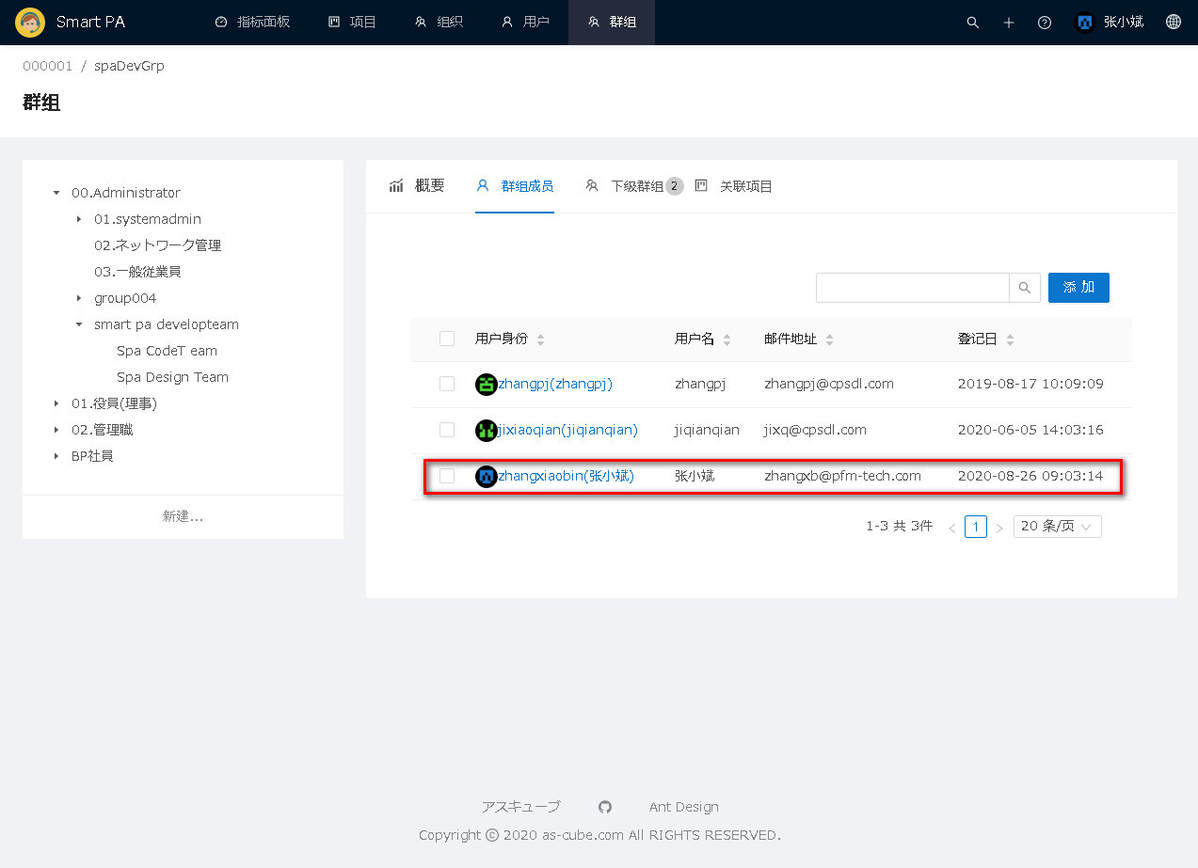
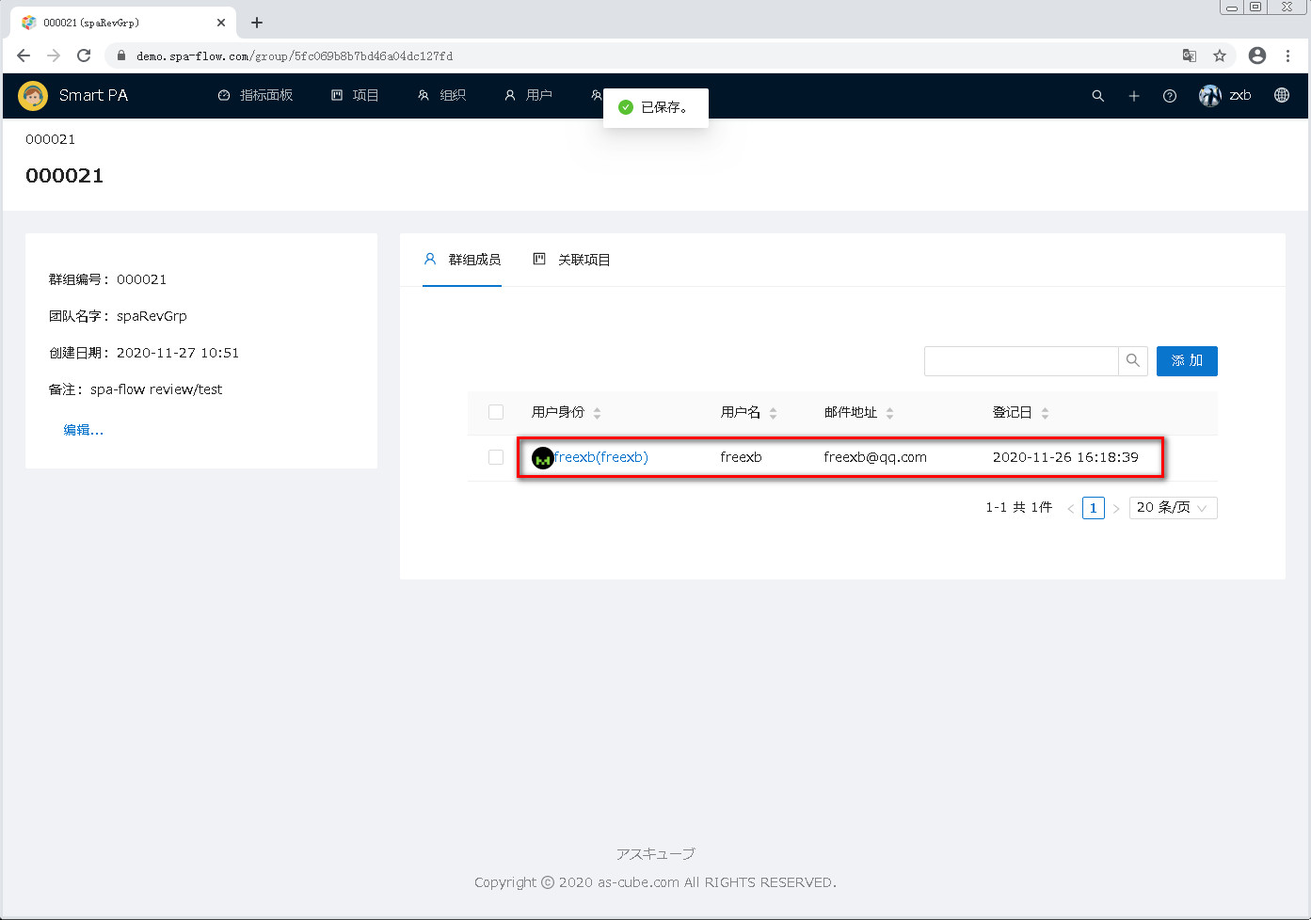
rewriteGroup
group tree is deleted→rewrite group

diff --git a/html/group-cn.html b/html/group-cn.html
@@ -473,33 +473,39 @@ vertical-align:1px;
 <hr>
 <h2 id="1-">1 进入群组管理模块</h2>
 <p>点击页面顶部菜单栏的 <u>群组</u> ，即可进入群组管理模块。<br><img src="../images/userGuide/group/groupMenu-cn.jpg" alt="avatar"><br><img src="../images/userGuide/group/groupList-cn.jpg" alt="avatar"></p>
-<h2 id="2-">2 新建群组</h2>
-<p>新建群组有两种方式。<br>&emsp;第一种是点击页面左栏群组列表下面的 <u>新建...</u> 按钮。<br>&emsp;第二种是点击页面右栏的概要标签的下面的 <u>新建...</u> 按钮。<br>二者的不同之处是：<br>&emsp;第一种：新建群组页面里的上级群组一项的默认值为空。<br>&emsp;第二种：新建群组页面里的上级群组一项的默认值为当前选择的群组。</p>
+<h2 id="2-">2 群组检索</h2>
+<h2 id="2-1-">2.1 检索群组编号中包含检索文字的群组</h2>
+<p>如下图，群组列表上方有检索框，可通过它检索群组。<br>检索的匹配模式是部分包含匹配，即群组编号或团队名字中包含输入的检索文字的群组会被检索到。且检索文字不区分大小写。</p>
+<p>首先，在检索框中输入检索文字。<br><img src="../images/userGuide/group/inputSelGroupWord-cn.jpg" alt="avatar"><br>然后点击检索按钮(即放大镜图标),或者按回车键(Enter键)。<br><img src="../images/userGuide/group/selGroupIcon-cn.jpg" alt="avatar"><br>群组编号或团队名字中包含检索文字的群组被检索出来。<br><img src="../images/userGuide/group/selectedGroup-cn.jpg" alt="avatar"></p>
+<h2 id="2-2-">2.2 显示所有群组</h2>
+<p>如果想显示所有群组，则删除检索框中的所有文字，之后点击检索按钮(或者在键盘上点击回车键)，即可显示所有群组。</p>
+<h2 id="3-">3 下载群组信息一览</h2>
+<p>可以点击下载按钮，将群组信息一览以csv文件格式下载到本地电脑。</p>
+<p>点击下载按钮。<br><img src="../images/userGuide/group/downGroupFileIcon-cn.jpg" alt="avatar"><br>下载完成后，页面底部显示下载状态栏，点击下载文件右边的箭头。<br><img src="../images/userGuide/group/downloadedGroup-cn.jpg" alt="avatar"><br>在弹出的菜单中，选择 <u>在文件夹中显示</u>。<br><img src="../images/userGuide/group/showDownFileInFld-cn.jpg" alt="avatar"><br>下载文件所在的文件夹被打开，可以看到下载文件。<br><img src="../images/userGuide/group/openDownFileFld-cn.jpg" alt="avatar"><br>打开文件，确认文件里的群组信息。<br><img src="../images/userGuide/group/openDownGroupFile-cn.jpg" alt="avatar"></p>
+<h2 id="4-">4 新建群组</h2>
+<p>新建群组有两种方式。<br>一种是点击<u>+新建</u>按钮，进入创建群组页面来新建群组。<br>另一种是通过点击上传按钮，通过上传csv文件来批量建立群组。</p>
 <p>以下分别说明两种新建群组的方法。</p>
-<h2 id="2-1-u-u-">2.1 点击页面左栏群组列表下面的 <u>新建...</u> 按钮来新建群组</h2>
-<p>点击页面左栏群组列表下面的 <u>新建...</u> 按钮<br><img src="../images/userGuide/group/addGroupBtnLeft-cn.jpg" alt="avatar"><br>进入新建群组页面。注意上级群组一项为空，没有默认值。<br><img src="../images/userGuide/group/newGroupInitNoSup-cn.jpg" alt="avatar"><br>输入要新建的群组信息后，点击<u>保存</u>按钮。<br>[注意]&emsp;上级群组若不输入，则建立的群组为顶级群组。<br><img src="../images/userGuide/group/newGroup-cn.jpg" alt="avatar"><br>保存后，页面跳转到一览页面，在一览中，可以看到刚才新建的群组。<br><img src="../images/userGuide/group/newGroupSaved-cn.jpg" alt="avatar"></p>
-<h2 id="2-2-u-u-">2.2 点击页面右栏的概要标签的下面的 <u>新建...</u> 按钮来新建群组</h2>
-<p>选择一个群组，点击其概要标签页下面的<u>新建...</u> 按钮<br><img src="../images/userGuide/group/addGroupBtnRight-cn.jpg" alt="avatar"><br>进入新建群组页面。注意上级群组一项具有默认值，其默认值为当前选中的群组。<br><img src="../images/userGuide/group/newGroupInitHaveSup-cn.jpg" alt="avatar"><br>输入要新建的群组信息后，点击<u>保存</u>按钮。<br><img src="../images/userGuide/group/newGroupHaveSup-cn.jpg" alt="avatar"><br>保存后，页面跳转到一览页面，在一览中，可以看到刚才新建的群组。<br><img src="../images/userGuide/group/newGroupSavedHaveSup-cn.jpg" alt="avatar"></p>
-<h2 id="3-">3.编辑群组</h2>
-<p>从页面左栏的群组树中，点击选择要修改的群组。页面右栏则显示被选择的群组信息。<br>群组信息分为<u>概要</u>、<u>群组成员</u>、<u>下级群组</u>、<u>关联项目</u> 四部分。<br><img src="../images/userGuide/group/selectGroup-cn.jpg" alt="avatar"></p>
-<h3 id="3-1-">3.1群组概要信息的编辑</h3>
+<h3 id="4-1-">4.1 新建群组</h3>
+<p>点击群组列表左上方的 <u>+新建</u> 按钮,<br><img src="../images/userGuide/group/addGroupBtn-cn.jpg" alt="avatar"><br>进入新建群组页面,<br><img src="../images/userGuide/group/newGroupInit-cn.jpg" alt="avatar"><br>输入要新建的群组信息后，点击<u>保存</u>按钮,<br><img src="../images/userGuide/group/newGroup-cn.jpg" alt="avatar"><br>群组被创建，页面回到群组一览页面。<br><img src="../images/userGuide/group/groupCreated-cn.jpg" alt="avatar"></p>
+<h3 id="4-2-csv-">4.2 上传csv文件批量建立群组</h3>
+<p>首先准备好群组csv文件,csv文件的内容和格式参见下图中的groupListUp.csv。<br><img src="../images/userGuide/group/groupCsvFile-cn.jpg" alt="avatar"><br>点击群组列表右上方的上载按钮。<br><img src="../images/userGuide/group/uploadGroupCsvIcon-cn.jpg" alt="avatar"><br>弹出文件选择框。<br><img src="../images/userGuide/group/selFileDlgGroupCsv-cn.jpg" alt="avatar"><br>选择准备的群组csv文件，之后点击<u>打开(O)</u>按钮。<br><img src="../images/userGuide/group/selectedGroupCsv_cn.jpg" alt="avatar"><br>页面回到群组一览页面，可以看到群组csv文件中的群组已显示在群组一览中。<br><img src="../images/userGuide/group/addedGroupByCsv-cn.jpg" alt="avatar"></p>
+<h2 id="5-">5 管理群组综合信息</h2>
+<p>从群组一览中，点击要管理的群组编号，即可进入此群组的综合信息管理页面。<br><img src="../images/userGuide/group/clickGrpIdInGrpList-cn.jpg" alt="avatar"><br>在此页面，可编辑群组基本信息、管理群组成员、查看群组的关联项目。<br><img src="../images/userGuide/group/groupViewInit-cn.jpg" alt="avatar"></p>
+<h3 id="5-1-">5.1 编辑群组基本信息</h3>
 <p>点击概要下面的<u>编辑...</u>按钮，即可进入群组修改页面。<br><img src="../images/userGuide/group/editGroupBtn-cn.jpg" alt="avatar"><br>进入群组编辑页面。<br><img src="../images/userGuide/group/editGroupInit-cn.jpg" alt="avatar"><br>修改群组信息后，点击<u>保存</u>按钮。<br><img src="../images/userGuide/group/editGroup-cn.jpg" alt="avatar"><br>保存后，页面跳转至群组一览页面，可以看到刚才修改的群组的信息。<br><img src="../images/userGuide/group/editGroupSaved-cn.jpg" alt="avatar"></p>
-<h3 id="3-2-">3.2群组成员的管理</h3>
-<p>点击群组成员标签，进入群组成员一览页面。在此页面，可添加和移除群组成员。<br><img src="../images/userGuide/group/userList-cn.jpg" alt="avatar"></p>
-<h4 id="3-2-1-">3.2.1添加群组成员</h4>
-<p>点击<u>添加</u>按钮，<br><img src="../images/userGuide/group/userListAddBtn-cn.jpg" alt="avatar"><br>弹出添加用户的页面。<br><img src="../images/userGuide/group/addUserDlg-cn.jpg" alt="avatar"><br>在输入框中输入要添加的用户名。输入时，与输入文字部分匹配的用户将自动列出，可从列表中点击选择。<br><img src="../images/userGuide/group/addUserDlgSel-cn.jpg" alt="avatar"><br>选择好要添加的用户后，点击OK按钮即可。若要放弃本次操作，则点击取消按钮即可。<br><img src="../images/userGuide/group/addUserDlgSelected-cn.jpg" alt="avatar"><br>点击OK按钮后，页面跳转到用户一览画面，可以看到刚才添加的用户出现在列表中。<br><img src="../images/userGuide/group/addUserSaved-cn.jpg" alt="avatar"></p>
-<h4 id="3-2-2-">3.2.2移除群组成员</h4>
-<p>选中要移除的用户前面的复选框，<br><img src="../images/userGuide/group/delUserChk-cn.jpg" alt="avatar"><br>之后用户列表上方出现已选中条数的信息和<u>移除</u>按钮,<br><img src="../images/userGuide/group/delUserChkOn-cn.jpg" alt="avatar"><br>选中要移除的用户后，点击<u>移除</u>按钮,<br><img src="../images/userGuide/group/delUserBtn-cn.jpg" alt="avatar"><br>用户一览刷新，可以看到被移除的用户已经从一览中消失。<br><img src="../images/userGuide/group/deledUser-cn.jpg" alt="avatar"></p>
-<h3 id="3-3-">3.3下级群组的管理</h3>
-<p>点击下级群组，进入下级群组一览页面，在此页面，可删除下级群组和查看下级群组的详细信息。<br><img src="../images/userGuide/group/childGroupList-cn.jpg" alt="avatar"></p>
-<h4 id="3-3-1-">3.3.1删除下级群组</h4>
-<p>通过点选最前面的复选框选中要删除的下级群组，之后下级群组列表上方出现已选中条数的信息和<u>删除</u>按钮。<br><img src="../images/userGuide/group/delGroupChk-cn.jpg" alt="avatar"><br><img src="../images/userGuide/group/delGroupChked-cn.jpg" alt="avatar"><br>选中要删除的下级群组后，点击<u>删除</u>按钮。出现删除确认的对话框。<br>点击<u>OK</u>按钮，即可进行删除。点击<u>取消</u>按钮，则放弃本次删除操作。<br><img src="../images/userGuide/group/delGroupConfirm-cn.jpg" alt="avatar"><br>之后，下级群组一览刷新。可以看到刚才删除的下级群组已经从一览中消失。<br><img src="../images/userGuide/group/deledGroup-cn.jpg" alt="avatar"></p>
-<h4 id="3-3-2-">3.3.2查看下级群组详细信息</h4>
-<p>点击要查看的群组的群组编号，进入下级群组详细信息页面，可查看其详细信息。<br><img src="../images/userGuide/group/childGroupLink-cn.jpg" alt="avatar"><br><img src="../images/userGuide/group/childGroupDetail-cn.jpg" alt="avatar"><br>进入下级群组详细信息页面后，在页面左栏有<u>编辑...</u>、<u>新建...</u>按钮。<br>页面右栏则有群组成员、下级群组、关联项目3个标签页面。下面分别说明其操作功能。<br>&emsp;编辑按钮：点击进入群组编辑页面，操作请参见<u>###3.1群组概要信息的编辑</u>。<br>&emsp;新建按钮：点击进入群组新建页面，操作请参见<u>##2.2 点击页面右栏的概要标签的下面的 <u>新建...</u> 按钮来新建群组</u>。<br>&emsp;群组成员标签页：参见<u>###3.2群组成员的管理</u>。<br>&emsp;下级群组标签页：参见<u>###3.3下级群组的管理</u>。<br>&emsp;关联项目标签页：参见<u>###3.4关联项目的管理</u>。</p>
-<h3 id="3-4-">3.4关联项目的管理</h3>
-<p>点击关联项目，进入关联项目一览页面。<br><img src="../images/userGuide/group/relatedPrj-cn.jpg" alt="avatar"></p>
-<h3 id="3-4-1-">3.4.1查看项目具体信息</h3>
-<p>点击要查看的项目，<br><img src="../images/userGuide/group/relatedPrjLink-cn.jpg" alt="avatar"><br>进入项目详细页面。<br><img src="../images/userGuide/group/relatedPrjDetail-cn.jpg" alt="avatar"></p>
+<h3 id="5-2-">5.2 管理群组成员</h3>
+<p>在群组成员标签页，可以添加或删除群组所属成员<br><img src="../images/userGuide/group/userList-cn.jpg" alt="avatar"></p>
+<h4 id="5-2-1-">5.2.1添加群组成员</h4>
+<p>点击<u>添加</u>按钮。<br><img src="../images/userGuide/group/userListAddBtn-cn.jpg" alt="avatar"><br>弹出添加用户的页面。<br><img src="../images/userGuide/group/addUserDlg-cn.jpg" alt="avatar"><br>在输入框中输入要添加的用户名。输入时，与输入文字部分匹配的用户将自动列出，可从列表中点击选择。<br><img src="../images/userGuide/group/addUserDlgSel-cn.jpg" alt="avatar"><br>选择好要添加的用户后，点击OK按钮即可。若要放弃本次操作，则点击取消按钮即可。<br><img src="../images/userGuide/group/addUserDlgSelected-cn.jpg" alt="avatar"><br>点击OK按钮后，页面跳转到用户一览画面，可以看到刚才添加的用户出现在列表中。<br><img src="../images/userGuide/group/addUserSaved-cn.jpg" alt="avatar"></p>
+<h4 id="5-2-2-">5.2.2删除群组成员</h4>
+<p>删除群组成员，并非删除用户信息，只是将用户从群组中移出。</p>
+<p>选择要删除用户前面的复选框。<br><img src="../images/userGuide/group/delUserChk-cn.jpg" alt="avatar"><br>选中用户后，列表上方出现已选中条数的信息和<u>删除</u>按钮。<br><img src="../images/userGuide/group/delUserChkOn-cn.jpg" alt="avatar"><br>点击<u>删除</u>按钮。<br><img src="../images/userGuide/group/delUserBtn-cn.jpg" alt="avatar"><br>用户一览刷新，可以看到被删除的用户已经从一览中消失。<br><img src="../images/userGuide/group/deledUser-cn.jpg" alt="avatar"></p>
+<h3 id="5-3-">5.3关联项目的管理</h3>
+<p>点击关联项目，进入关联项目一览页面。<br><img src="../images/userGuide/group/relatedPrjTab-cn.jpg" alt="avatar"><br><img src="../images/userGuide/group/relatedPrjList-cn.jpg" alt="avatar"></p>
+<h3 id="5-3-1-">5.3.1查看项目具体信息</h3>
+<p>点击要查看的项目。<br><img src="../images/userGuide/group/relatedPrjLink-cn.jpg" alt="avatar"><br>进入项目详细页面。<br><img src="../images/userGuide/group/relatedPrjDetail-cn.jpg" alt="avatar"></p>
+<h2 id="6-">6.删除群组</h2>
+<p>要删除群组，首先在群组一览里选择要删除的群组。当一览中群组数过多时，可利用检索缩减列表中的群组数。<br><img src="../images/userGuide/group/selectGroupInList-cn.jpg" alt="avatar"><br>选中后，一览的上方出现选中件数信息和删除按钮。<br><img src="../images/userGuide/group/selectedGroupInList-cn.jpg" alt="avatar"><br>点击删除按钮。<br><img src="../images/userGuide/group/groupListDeleteBtn-cn.jpg" alt="avatar"><br>弹出删除确认对话框。<br><img src="../images/userGuide/group/deleteGroupInListConfirm-cn.jpg" alt="avatar"><br>点击对话框上的OK按钮即可(若想放弃删除，则点击取消按钮)。<br><img src="../images/userGuide/group/deleteGroupInListConfirmOkBtn-cn.jpg" alt="avatar"><br>群组被删除，从一览中消失。<br><img src="../images/userGuide/group/deletedGroupInList-cn.jpg" alt="avatar"></p>
 
 </body>
 </html>

diff --git a/userGuide/group-cn.md b/userGuide/group-cn.md
@@ -8,42 +8,73 @@
 ![avatar](../images/userGuide/group/groupMenu-cn.jpg)
 ![avatar](../images/userGuide/group/groupList-cn.jpg)
 
-##2 新建群组
+##2 群组检索
+
+##2.1 检索群组编号中包含检索文字的群组
+如下图，群组列表上方有检索框，可通过它检索群组。
+检索的匹配模式是部分包含匹配，即群组编号或团队名字中包含输入的检索文字的群组会被检索到。且检索文字不区分大小写。
+
+首先，在检索框中输入检索文字。
+![avatar](../images/userGuide/group/inputSelGroupWord-cn.jpg)
+然后点击检索按钮(即放大镜图标),或者按回车键(Enter键)。
+![avatar](../images/userGuide/group/selGroupIcon-cn.jpg)
+群组编号或团队名字中包含检索文字的群组被检索出来。
+![avatar](../images/userGuide/group/selectedGroup-cn.jpg)
+
+##2.2 显示所有群组
+如果想显示所有群组，则删除检索框中的所有文字，之后点击检索按钮(或者在键盘上点击回车键)，即可显示所有群组。
+
+##3 下载群组信息一览
+可以点击下载按钮，将群组信息一览以csv文件格式下载到本地电脑。
+
+点击下载按钮。
+![avatar](../images/userGuide/group/downGroupFileIcon-cn.jpg)
+下载完成后，页面底部显示下载状态栏，点击下载文件右边的箭头。
+![avatar](../images/userGuide/group/downloadedGroup-cn.jpg)
+在弹出的菜单中，选择 <u>在文件夹中显示</u>。
+![avatar](../images/userGuide/group/showDownFileInFld-cn.jpg)
+下载文件所在的文件夹被打开，可以看到下载文件。
+![avatar](../images/userGuide/group/openDownFileFld-cn.jpg)
+打开文件，确认文件里的群组信息。
+![avatar](../images/userGuide/group/openDownGroupFile-cn.jpg)
+
+##4 新建群组
 新建群组有两种方式。
-&emsp;第一种是点击页面左栏群组列表下面的 <u>新建...</u> 按钮。
-&emsp;第二种是点击页面右栏的概要标签的下面的 <u>新建...</u> 按钮。
-二者的不同之处是：
-&emsp;第一种：新建群组页面里的上级群组一项的默认值为空。
-&emsp;第二种：新建群组页面里的上级群组一项的默认值为当前选择的群组。
+一种是点击<u>+新建</u>按钮，进入创建群组页面来新建群组。
+另一种是通过点击上传按钮，通过上传csv文件来批量建立群组。
 
 以下分别说明两种新建群组的方法。
 
-##2.1 点击页面左栏群组列表下面的 <u>新建...</u> 按钮来新建群组
-点击页面左栏群组列表下面的 <u>新建...</u> 按钮
-![avatar](../images/userGuide/group/addGroupBtnLeft-cn.jpg)
-进入新建群组页面。注意上级群组一项为空，没有默认值。
-![avatar](../images/userGuide/group/newGroupInitNoSup-cn.jpg)
-输入要新建的群组信息后，点击<u>保存</u>按钮。
-[注意]&emsp;上级群组若不输入，则建立的群组为顶级群组。
+###4.1 新建群组
+点击群组列表左上方的 <u>+新建</u> 按钮,
+![avatar](../images/userGuide/group/addGroupBtn-cn.jpg)
+进入新建群组页面,
+![avatar](../images/userGuide/group/newGroupInit-cn.jpg)
+输入要新建的群组信息后，点击<u>保存</u>按钮,
 ![avatar](../images/userGuide/group/newGroup-cn.jpg)
-保存后，页面跳转到一览页面，在一览中，可以看到刚才新建的群组。
-![avatar](../images/userGuide/group/newGroupSaved-cn.jpg)
-##2.2 点击页面右栏的概要标签的下面的 <u>新建...</u> 按钮来新建群组
-选择一个群组，点击其概要标签页下面的<u>新建...</u> 按钮
-![avatar](../images/userGuide/group/addGroupBtnRight-cn.jpg)
-进入新建群组页面。注意上级群组一项具有默认值，其默认值为当前选中的群组。
-![avatar](../images/userGuide/group/newGroupInitHaveSup-cn.jpg)
-输入要新建的群组信息后，点击<u>保存</u>按钮。
-![avatar](../images/userGuide/group/newGroupHaveSup-cn.jpg)
-保存后，页面跳转到一览页面，在一览中，可以看到刚才新建的群组。
-![avatar](../images/userGuide/group/newGroupSavedHaveSup-cn.jpg)
+群组被创建，页面回到群组一览页面。
+![avatar](../images/userGuide/group/groupCreated-cn.jpg)
 
-##3.编辑群组
-从页面左栏的群组树中，点击选择要修改的群组。页面右栏则显示被选择的群组信息。
-群组信息分为<u>概要</u>、<u>群组成员</u>、<u>下级群组</u>、<u>关联项目</u> 四部分。
-![avatar](../images/userGuide/group/selectGroup-cn.jpg)
+###4.2 上传csv文件批量建立群组
+首先准备好群组csv文件,csv文件的内容和格式参见下图中的groupListUp.csv。
+![avatar](../images/userGuide/group/groupCsvFile-cn.jpg)
+点击群组列表右上方的上载按钮。
+![avatar](../images/userGuide/group/uploadGroupCsvIcon-cn.jpg)
+弹出文件选择框。
+![avatar](../images/userGuide/group/selFileDlgGroupCsv-cn.jpg)
+选择准备的群组csv文件，之后点击<u>打开(O)</u>按钮。
+![avatar](../images/userGuide/group/selectedGroupCsv_cn.jpg)
+页面回到群组一览页面，可以看到群组csv文件中的群组已显示在群组一览中。
+![avatar](../images/userGuide/group/addedGroupByCsv-cn.jpg)
 
-###3.1群组概要信息的编辑
+
+##5 管理群组综合信息
+从群组一览中，点击要管理的群组编号，即可进入此群组的综合信息管理页面。
+![avatar](../images/userGuide/group/clickGrpIdInGrpList-cn.jpg)
+在此页面，可编辑群组基本信息、管理群组成员、查看群组的关联项目。
+![avatar](../images/userGuide/group/groupViewInit-cn.jpg)
+
+###5.1 编辑群组基本信息
 点击概要下面的<u>编辑...</u>按钮，即可进入群组修改页面。
 ![avatar](../images/userGuide/group/editGroupBtn-cn.jpg)
 进入群组编辑页面。
@@ -53,12 +84,12 @@
 保存后，页面跳转至群组一览页面，可以看到刚才修改的群组的信息。
 ![avatar](../images/userGuide/group/editGroupSaved-cn.jpg)
 
-###3.2群组成员的管理
-点击群组成员标签，进入群组成员一览页面。在此页面，可添加和移除群组成员。
+###5.2 管理群组成员
+在群组成员标签页，可以添加或删除群组所属成员
 ![avatar](../images/userGuide/group/userList-cn.jpg)
 
-####3.2.1添加群组成员
-点击<u>添加</u>按钮，
+####5.2.1添加群组成员
+点击<u>添加</u>按钮。
 ![avatar](../images/userGuide/group/userListAddBtn-cn.jpg)
 弹出添加用户的页面。  
 ![avatar](../images/userGuide/group/addUserDlg-cn.jpg)
@@ -69,45 +100,39 @@
 点击OK按钮后，页面跳转到用户一览画面，可以看到刚才添加的用户出现在列表中。
 ![avatar](../images/userGuide/group/addUserSaved-cn.jpg)
 
-####3.2.2移除群组成员
-选中要移除的用户前面的复选框，
+####5.2.2删除群组成员
+删除群组成员，并非删除用户信息，只是将用户从群组中移出。
+
+选择要删除用户前面的复选框。
 ![avatar](../images/userGuide/group/delUserChk-cn.jpg)
-之后用户列表上方出现已选中条数的信息和<u>移除</u>按钮,
+选中用户后，列表上方出现已选中条数的信息和<u>删除</u>按钮。
 ![avatar](../images/userGuide/group/delUserChkOn-cn.jpg)
-选中要移除的用户后，点击<u>移除</u>按钮,
+点击<u>删除</u>按钮。
 ![avatar](../images/userGuide/group/delUserBtn-cn.jpg)
-用户一览刷新，可以看到被移除的用户已经从一览中消失。
+用户一览刷新，可以看到被删除的用户已经从一览中消失。
 ![avatar](../images/userGuide/group/deledUser-cn.jpg)
 
-###3.3下级群组的管理
-点击下级群组，进入下级群组一览页面，在此页面，可删除下级群组和查看下级群组的详细信息。
-![avatar](../images/userGuide/group/childGroupList-cn.jpg)
-####3.3.1删除下级群组
-通过点选最前面的复选框选中要删除的下级群组，之后下级群组列表上方出现已选中条数的信息和<u>删除</u>按钮。
-![avatar](../images/userGuide/group/delGroupChk-cn.jpg)
-![avatar](../images/userGuide/group/delGroupChked-cn.jpg)
-选中要删除的下级群组后，点击<u>删除</u>按钮。出现删除确认的对话框。
-点击<u>OK</u>按钮，即可进行删除。点击<u>取消</u>按钮，则放弃本次删除操作。
-![avatar](../images/userGuide/group/delGroupConfirm-cn.jpg)
-之后，下级群组一览刷新。可以看到刚才删除的下级群组已经从一览中消失。
-![avatar](../images/userGuide/group/deledGroup-cn.jpg)
-####3.3.2查看下级群组详细信息
-点击要查看的群组的群组编号，进入下级群组详细信息页面，可查看其详细信息。
-![avatar](../images/userGuide/group/childGroupLink-cn.jpg)
-![avatar](../images/userGuide/group/childGroupDetail-cn.jpg)
-进入下级群组详细信息页面后，在页面左栏有<u>编辑...</u>、<u>新建...</u>按钮。
-页面右栏则有群组成员、下级群组、关联项目3个标签页面。下面分别说明其操作功能。
-&emsp;编辑按钮：点击进入群组编辑页面，操作请参见<u>###3.1群组概要信息的编辑</u>。
-&emsp;新建按钮：点击进入群组新建页面，操作请参见<u>##2.2 点击页面右栏的概要标签的下面的 <u>新建...</u> 按钮来新建群组</u>。
-&emsp;群组成员标签页：参见<u>###3.2群组成员的管理</u>。
-&emsp;下级群组标签页：参见<u>###3.3下级群组的管理</u>。
-&emsp;关联项目标签页：参见<u>###3.4关联项目的管理</u>。
-
-###3.4关联项目的管理
+###5.3关联项目的管理
 点击关联项目，进入关联项目一览页面。
-![avatar](../images/userGuide/group/relatedPrj-cn.jpg)
-###3.4.1查看项目具体信息
-点击要查看的项目，
+![avatar](../images/userGuide/group/relatedPrjTab-cn.jpg)
+![avatar](../images/userGuide/group/relatedPrjList-cn.jpg)
+
+###5.3.1查看项目具体信息
+点击要查看的项目。
 ![avatar](../images/userGuide/group/relatedPrjLink-cn.jpg)
 进入项目详细页面。
 ![avatar](../images/userGuide/group/relatedPrjDetail-cn.jpg)
+
+##6.删除群组
+要删除群组，首先在群组一览里选择要删除的群组。当一览中群组数过多时，可利用检索缩减列表中的群组数。
+![avatar](../images/userGuide/group/selectGroupInList-cn.jpg)
+选中后，一览的上方出现选中件数信息和删除按钮。
+![avatar](../images/userGuide/group/selectedGroupInList-cn.jpg)
+点击删除按钮。
+![avatar](../images/userGuide/group/groupListDeleteBtn-cn.jpg)
+弹出删除确认对话框。
+![avatar](../images/userGuide/group/deleteGroupInListConfirm-cn.jpg)
+点击对话框上的OK按钮即可(若想放弃删除，则点击取消按钮)。
+![avatar](../images/userGuide/group/deleteGroupInListConfirmOkBtn-cn.jpg)
+群组被删除，从一览中消失。
+![avatar](../images/userGuide/group/deletedGroupInList-cn.jpg)
